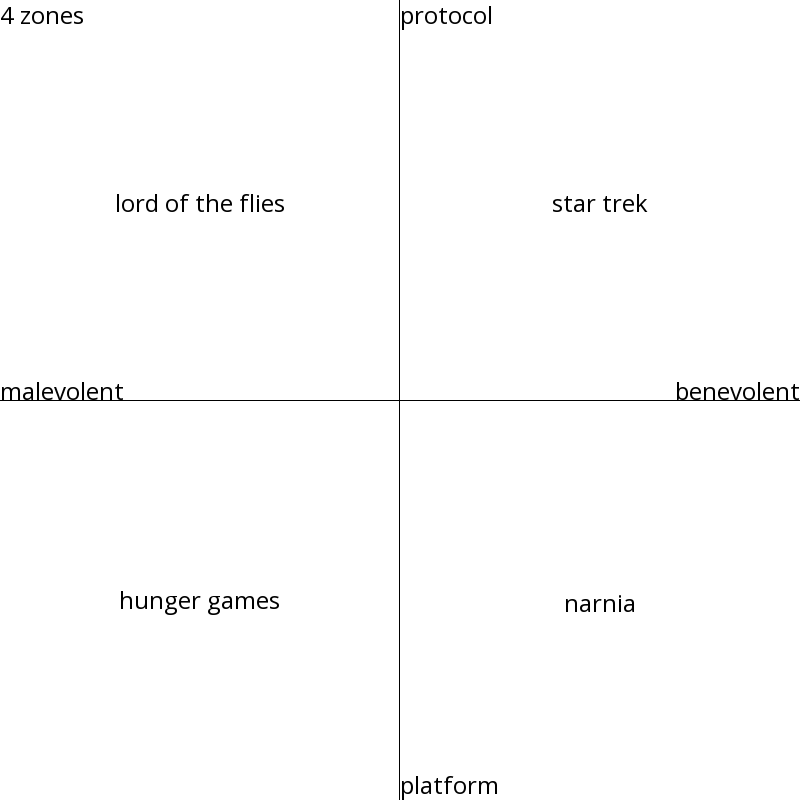
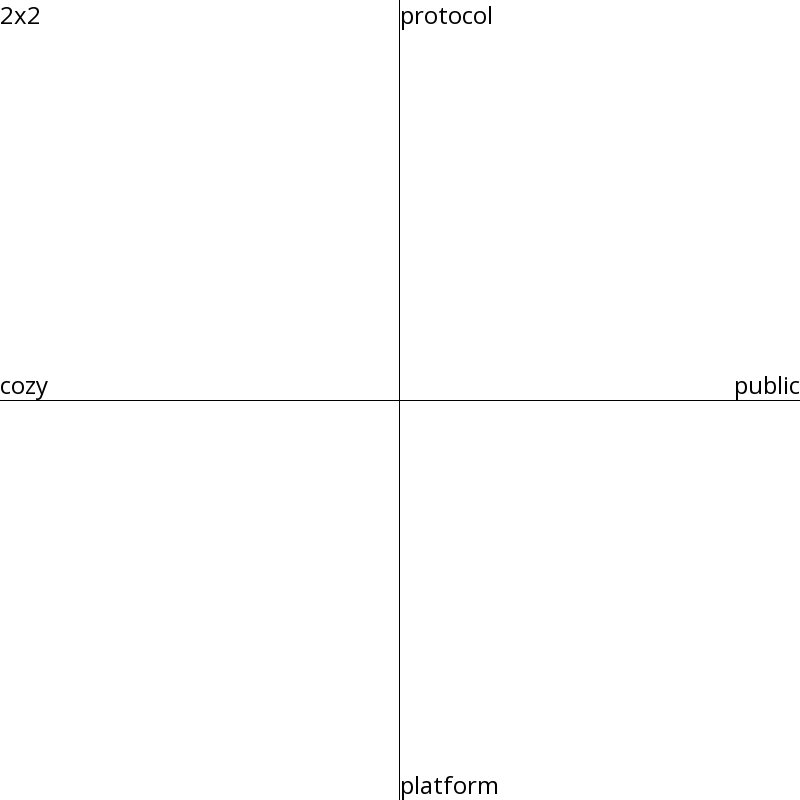
diagram

diff --git a/main.py b/main.py
@@ -146,21 +146,20 @@ async def amendhash(hash=None, hash2=None):
 			hash2[i] = keep
 	return HASH_DELIM.join(hash2)
 
-
-
-
-
 # big function, needs separation
 
 async def tofile(hash):
-	
-	prep = hash.split(HASH_DELIM)
-	preplen = len(prep)
-	if preplen < PARAM_NUM:
-		prep = prep.extend([""]*(PARAM_NUM-preplen))
-	elif preplen > PARAM_NUM:
-		prep = prep[:PARAM_NUM]
-	[_x, _y, _xn, _xp, _yn, _yp, _1, _2, _3, _4, _t] = prep
+
+
+	if type(hash) == str:
+		hash = hash.split(HASH_DELIM)
+		preplen = len(hash)
+		if preplen < PARAM_NUM:
+			hash = hash.extend([""]*(PARAM_NUM-preplen))
+		elif preplen > PARAM_NUM:
+			hash = hash[:PARAM_NUM]
+
+	[_1, _2, _3, _4, _yp, _xn, _yn, _xp, _x, _y, _t] = hash
 	
 	width = 800
 	height = 800
@@ -255,8 +254,7 @@ async def tofile(hash):
 	def drawcurve(xyr):
 		r = int(math.sqrt((xyr[0]-xyr[2])**2 + (xyr[1]-xyr[3])**2))
 		xyxy = (xyr[0] - r, xyr[1] - r, xyr[0] + r, xyr[1] + r)
-		draw.ellipse(xyxy, outline=FONT_COLOR)
-
+		draw.ellipse(xyxy, outline=FONT_COLOR)		
 
 	#should replace drawing functions with identification and draw after effecient shape is calculated
 
@@ -269,72 +267,85 @@ async def tofile(hash):
 
 
 	#morphisms
-	
+
+	if (_yp != ''):
+		drawline((ox - LINE_WIDTH/2, 0, ox - LINE_WIDTH/2, oy))
+		drawprose((ox, 0), _yp, (width-ox) * MIDFIT, 'h+-')	
+		
 	if (_xn != ''):
 		drawline((0, oy, ox - LINE_WIDTH/2, oy))
 		drawprose((0, oy), _xn, ox * MIDFIT, 'h++')
 
+	if (_yn != ''):
+		drawline((ox - LINE_WIDTH/2, height, ox - LINE_WIDTH/2, oy))
+		drawprose((ox, height), _yn, (width-ox) * MIDFIT, 'h++')
+		
 	if (_xp != ''):
 		drawline((width, oy, ox - LINE_WIDTH/2, oy))
 		drawprose((width, oy), _xp, (width-ox) * MIDFIT, 'h-+')
 	
-	if (_yn != ''):
-		drawline((ox - LINE_WIDTH/2, height, ox - LINE_WIDTH/2, oy))
-		drawprose((ox, height), _yn, (width-ox) * MIDFIT, 'h++')
-	
-	if (_yp != ''):
-		drawline((ox - LINE_WIDTH/2, 0, ox - LINE_WIDTH/2, oy))
-		drawprose((ox, 0), _yp, (width-ox) * MIDFIT, 'h+-')	
 
 
 	#functors 
-	
-	drawprose((q1x, oy), _x, (width-ox) * WIDEFIT, 'h0-')
-	drawprose((ox, q1y), _y, (oy) * WIDEFIT, 'v0+', font90)
+
+	if (_x != ''):
+		drawline((0, oy, width, oy))
+		drawprose((q1x, oy), _x, (width-ox) * WIDEFIT, 'h0-')
+		
+	if (_y!= ''):
+		drawline((ox - LINE_WIDTH/2, 0, ox - LINE_WIDTH/2, height))
+		drawprose((ox, q1y), _y, (oy) * WIDEFIT, 'v0+', font90)
 	
 	
 	#most efficient shape
 
 	
 	# draw title
-	drawprose((0, 0), _t, ox * MIDFIT, 'h+-')
+	if (_t != ''):
+		drawprose((0, 0), _t, ox * MIDFIT, 'h+-')
 	
 	image.save('diagram.png')
 
 	reset_parameters()
 
 
+
+
+
+
+
+
 # tbt
 
 @bot.tree.command(name='tbt')
 @app_commands.describe(
-	hash = "🗺.:.⏱.:.🏞.:.🏬.:.🌜.:.🌞.:.🌇.:.🌄.:.🌌.:.🌃.:.🥱",
-	_x = "x coordinate",
-	_y = "y coordinate",
-	_xn = "when x is - (left)",
-	_xp = "when x is + (right)",
-	_yn = "when y is - (down)",
-	_yp = "when y is + (up)",
+	hash = "🌇.:.🌄.:.🌌.:.🌃.::.🌞.:.🏞.:.🌜.:.🏬.:.🗺.:.⏱.:.🥱",
 	_1 = "1st quadrant",
 	_2 = "2nd quadrant",
 	_3 = "3rd quadrant",
 	_4 = "4th quadrant",
+	_yp = "when y is + (up)",
+	_xn = "when x is - (left)",
+	_yn = "when y is - (down)",
+	_xp = "when x is + (right)",
+	_x = "x coordinate",
+	_y = "y coordinate",
 	_t = "title of diagram",
-	_pub = "True = publish, otherwise by default only you can see the bot reply",
+	_pub = "True = publish, otherwise by default only you can see the bot reply"
 	#add some more ...
 )
 async def tbt(interaction:discord.Interaction,
 							hash:str=None,
-								_x:str="",
-								_y:str="",
-								_xn:str="",
-								_xp:str="",
-								_yn:str="",
-								_yp:str="",
 								_1:str="",
 								_2:str="",
 								_3:str="",
 								_4:str="",
+								_yp:str="",
+								_xn:str="",
+								_yn:str="",
+								_xp:str="",
+								_x:str="",
+								_y:str="",
 								_t:str="",
 							_pub:bool=False
 						 	):
@@ -348,7 +359,7 @@ async def tbt(interaction:discord.Interaction,
 			)
 	
 		else:
-			hash = await amendhash(hash, [_x, _y, _xn, _xp, _yn, _yp, _1, _2, _3, _4, _t])
+			hash = await amendhash(hash, [_1, _2, _3, _4, _yp, _xn, _yn, _xp, _x, _y, _t])
 			await tofile(hash)
 			# send to discord
 			with open('diagram.png', 'rb') as f:
@@ -412,16 +423,26 @@ async def ml2(interaction:discord.Interaction,
 
 # topology layer under development
 
-@bot.tree.command(name='topos')
-@app_commands.describe(
-	_pub = "under developement"
-)
-async def topos(interaction:discord.Interaction,
-						 _pub:bool=False):
+@bot.tree.command(name='diagram')
+async def diagram(interaction:discord.Interaction, speak:str=""):
 	try:
-		pass
-	
-	
+		matches = re.findall(r"(\w+):\s(\w+)\s(vs.)\s(\w+),\s(\w+)\s(vs.)\s(\w+)", speak)
+
+		if not matches:
+			return
+
+		matches = matches[0]
+
+		hash = HASH_DELIM.join(['', '', '', '', matches[6], matches[1], matches[4], matches[3], '', '', matches[0]])
+		
+		await tofile(['', '', '', '', matches[6], matches[1], matches[4], matches[3], '', '', matches[0]])
+
+		with open('diagram.png', 'rb') as f:
+			await interaction.response.send_message(
+				speak + " -> hash: " + hash,
+				file = discord.File(f)
+			)
+			
 	except Exception as e:
 		if hasattr(interaction, 'author'):
 			await interaction.author.send(e)
